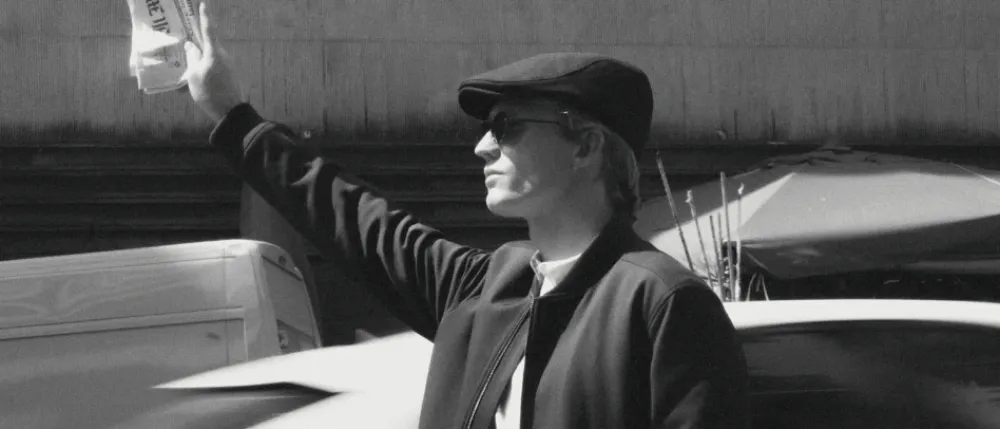
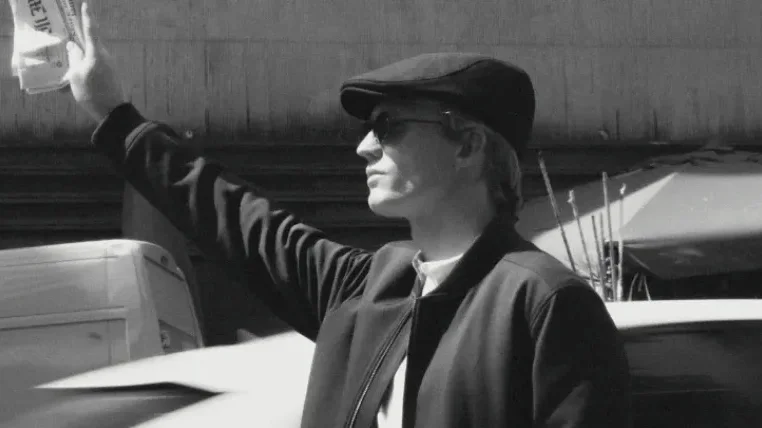
asset(home): ritagliate Outlet e Capsule a 16:9 (crop controllato, originali in backup)

diff --git a/index.html b/index.html
@@ -141,7 +141,7 @@
   <!-- SEZIONE LA CAPSULE -->
   <section class="capsule-section">
     <div class="capsule-img">
-      <img width="1000" height="429" src="images/bomber-capsule-copia.webp" alt="Bomber Doppelgänger — La Capsule FW 26/27" loading="lazy">
+      <img width="762" height="428" src="images/bomber-capsule-copia.webp" alt="Bomber Doppelgänger — La Capsule FW 26/27" loading="lazy">
     </div>
     <div class="capsule-text">
       <p class="capsule-eyebrow">La Capsule · FW 26/27</p>
@@ -239,7 +239,7 @@
 
 
   <section class="outlet-hero">
-    <img width="2833" height="1322" src="images/uno-outlet.webp" alt="Outlet Doppelgänger — Sconti fino all'80%" loading="lazy">
+    <img width="2350" height="1322" src="images/uno-outlet.webp" alt="Outlet Doppelgänger — Sconti fino all'80%" loading="lazy">
     <div class="outlet-hero-content">
       <h2>OUTLET</h2>
       <p class="outlet-hero-sub">Fino al</p>
